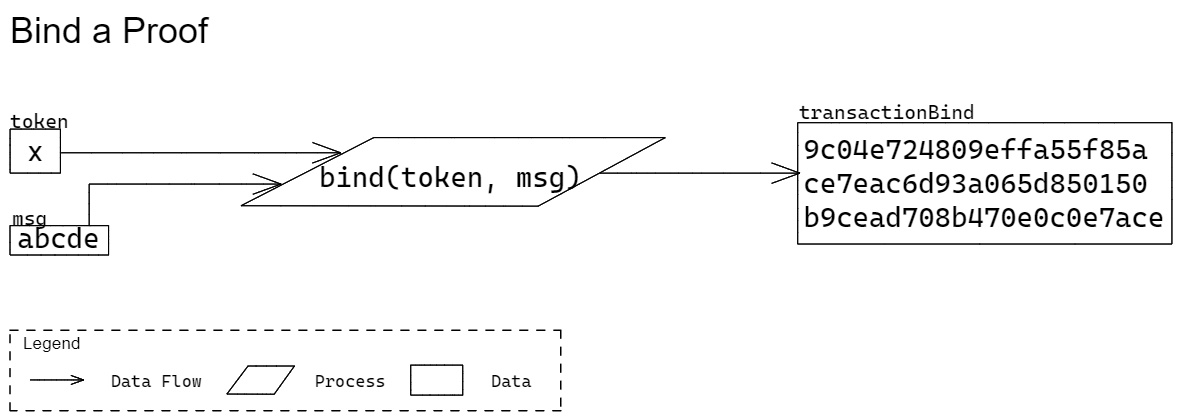
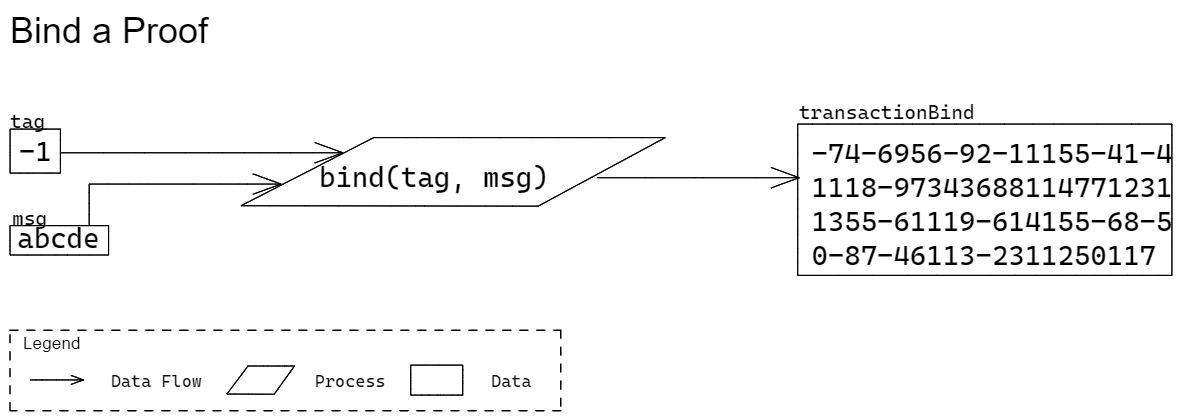
Updated diagrams

diff --git a/docs/Modules/Quivr/Prover.md b/docs/Modules/Quivr/Prover.md
@@ -63,9 +63,6 @@ Generate a binding for a proof. This binding is a blake2b256 hash of the `messag
 | And               | 125           |
 | Or                | 124           |
 
-
-> TODO: Update diagram
-
 ![diagram](./assets/Prover_bind.png)
 
 ### Tests
@@ -98,8 +95,6 @@ The errors that the method/function will produce include:
 ### Description
 
 Create a Proof for a Height Lock Proposition. A Proof contains information to satisfy the Proposition in addition to information to bind the proof with the transaction it will be a part of (i.e., "transactionBind"). In the case of a Height Lock, the proof contains only the transactionBind since its corresponding proposition will be evaluated against the context (instead of any proof data) during verification.
-
-> TODO: Update diagram
 
 ![diagram](./assets/Prover_proveHeight.png)
 

diff --git a/docs/Modules/Quivr/Verifier.md b/docs/Modules/Quivr/Verifier.md
@@ -56,10 +56,8 @@ To satisfy a Height Lock Proposition, the height requirements within the Proposi
 
 To verify the Proof's binding, the transactionBind within the Proof must match an expected binding that's created using the signable bytes of the transaction (given by `context`).
 
-> TODO: Update diagram
-
 ![diagram](./assets/Verifier_verifyHeight.png)
 
 ### Tests
 
-The testing procedure and vectors are provided in a [separate page](VerifierTests.md#prove-height-range-tests).
+The testing procedure and vectors are provided in a [separate page](VerifierTests.md#verify-height-range-tests).

diff --git a/docs/Modules/Quivr/Proposer.md b/docs/Modules/Quivr/Proposer.md
@@ -56,8 +56,6 @@ Create a Height Lock Proposition. A Height Lock Proposition requires that its co
 
 If any of the provided parameters are invalid, then an error will occur. The error will be presented in a way that adheres to the best practices of the implementing language.
 
-> TODO: Update diagram
-
 ![diagram](./assets/Proposer_proposeHeight.png)
 
 ### Tests
